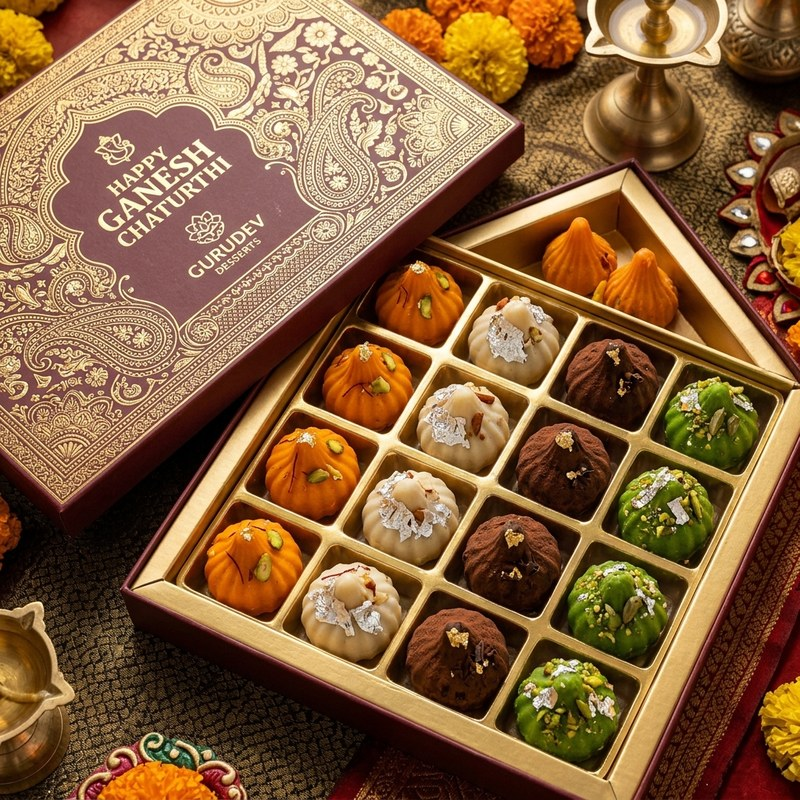
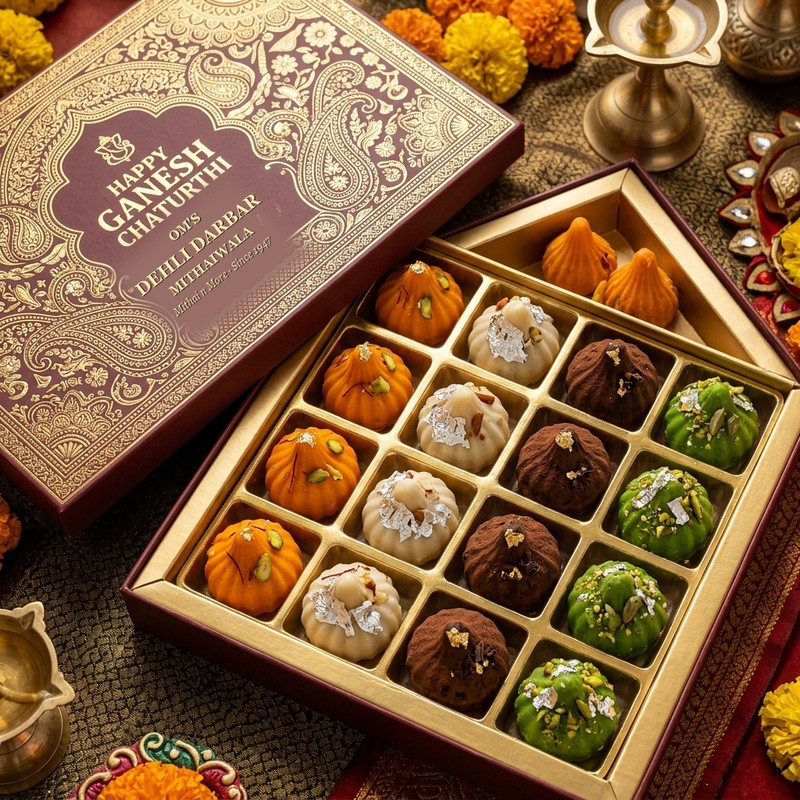
Update 21 Modak Mahaprasad Box image to feature authentic Om's Dehli Darbar Mithaiwala branding

Changed region(s): [[0.125, 0.25, 0.4062, 0.4375]]

diff --git a/assortments.html b/assortments.html
@@ -19,9 +19,9 @@
 <link rel="preload" href="assets/fonts/bitter-800.woff2" as="font" type="font/woff2" crossorigin>
 <link rel="preload" href="assets/fonts/bitter-400.woff2" as="font" type="font/woff2" crossorigin>
 <link rel="preload" href="assets/fonts/oswald-700.woff2" as="font" type="font/woff2" crossorigin>
-<link rel="stylesheet" href="assets/css/site.css?v=2026-08-30a">
-<script src="assets/js/products.js?v=2026-08-30a" defer></script>
-<script src="assets/js/site.js?v=2026-08-30a" defer></script>
+<link rel="stylesheet" href="assets/css/site.css?v=2026-08-30b">
+<script src="assets/js/products.js?v=2026-08-30b" defer></script>
+<script src="assets/js/site.js?v=2026-08-30b" defer></script>
 <link rel="icon" href="assets/img/logo.svg" type="image/svg+xml">
 <script type="application/ld+json">{"@context":"https://schema.org","@type":["Bakery","LocalBusiness","Store"],"name":"Om's Dehlii Darbar Mithaiwala","alternateName":["Om's Dehlii Darbar Mithaiwala","Oms Dehlii Darbar Mithaiwala"],"slogan":"Mithai n More","description":"All varieties of dry fruit, milk, bengali and mawa mithais manufactured by us. We cater to all orders for retail and corporate. Also available all types of dry fruits and farsans and chocolates. Fancy packaging available.","foundingDate":"1947","url":"https://omsdelhidarbarmithaiwala1947.github.io/Our-Website/","telephone":["+919920879952","+919820260299"],"priceRange":"₹₹","currenciesAccepted":"INR","paymentAccepted":"Cash, UPI","servesCuisine":"Indian sweets","address":{"@type":"PostalAddress","streetAddress":"Shop No. 20, Shivaji Nagar, Delisle Road","addressLocality":"Lower Parel (E), Mumbai","addressRegion":"Maharashtra","postalCode":"400013","addressCountry":"IN"},"openingHoursSpecification":[{"@type":"OpeningHoursSpecification","dayOfWeek":["Monday","Tuesday","Wednesday","Thursday","Friday","Saturday","Sunday"],"closes":"22:00"}],"aggregateRating":{"@type":"AggregateRating","ratingValue":"4.8","reviewCount":"16","bestRating":"5"},"hasMap":"https://maps.google.com/?q=Om%27s%20Dehlii%20Darbar%20Mithaiwala%2C%20Shop%20No.%2020%2C%20Shivaji%20Nagar%2C%20Delisle%20Road%2C%20Lower%20Parel%20%28E%29%2C%20Mumbai%20400013"}</script>
 </head>
@@ -116,7 +116,7 @@
       Contains dairy and tree nuts; many items finished with edible silver varq; some contain wheat.<br>
       FSSAI Lic. No. <span data-ph="fssai"></span> · GSTIN <span data-ph="gst"></span> ·
       Email <span data-ph="email"></span> · Instagram <span data-ph="instagram"></span><br>
-      © 1947–2026 Om's Dehlii Darbar Mithaiwala, Lower Parel, Mumbai. <span class="build">Site build 2026-08-30a</span>
+      © 1947–2026 Om's Dehlii Darbar Mithaiwala, Lower Parel, Mumbai. <span class="build">Site build 2026-08-30b</span>
     </p>
   </div>
 </footer>

diff --git a/boxes.html b/boxes.html
@@ -19,9 +19,9 @@
 <link rel="preload" href="assets/fonts/bitter-800.woff2" as="font" type="font/woff2" crossorigin>
 <link rel="preload" href="assets/fonts/bitter-400.woff2" as="font" type="font/woff2" crossorigin>
 <link rel="preload" href="assets/fonts/oswald-700.woff2" as="font" type="font/woff2" crossorigin>
-<link rel="stylesheet" href="assets/css/site.css?v=2026-08-30a">
-<script src="assets/js/products.js?v=2026-08-30a" defer></script>
-<script src="assets/js/site.js?v=2026-08-30a" defer></script>
+<link rel="stylesheet" href="assets/css/site.css?v=2026-08-30b">
+<script src="assets/js/products.js?v=2026-08-30b" defer></script>
+<script src="assets/js/site.js?v=2026-08-30b" defer></script>
 <link rel="icon" href="assets/img/logo.svg" type="image/svg+xml">
 <script type="application/ld+json">{"@context":"https://schema.org","@type":["Bakery","LocalBusiness","Store"],"name":"Om's Dehlii Darbar Mithaiwala","alternateName":["Om's Dehlii Darbar Mithaiwala","Oms Dehlii Darbar Mithaiwala"],"slogan":"Mithai n More","description":"All varieties of dry fruit, milk, bengali and mawa mithais manufactured by us. We cater to all orders for retail and corporate. Also available all types of dry fruits and farsans and chocolates. Fancy packaging available.","foundingDate":"1947","url":"https://omsdelhidarbarmithaiwala1947.github.io/Our-Website/","telephone":["+919920879952","+919820260299"],"priceRange":"₹₹","currenciesAccepted":"INR","paymentAccepted":"Cash, UPI","servesCuisine":"Indian sweets","address":{"@type":"PostalAddress","streetAddress":"Shop No. 20, Shivaji Nagar, Delisle Road","addressLocality":"Lower Parel (E), Mumbai","addressRegion":"Maharashtra","postalCode":"400013","addressCountry":"IN"},"openingHoursSpecification":[{"@type":"OpeningHoursSpecification","dayOfWeek":["Monday","Tuesday","Wednesday","Thursday","Friday","Saturday","Sunday"],"closes":"22:00"}],"aggregateRating":{"@type":"AggregateRating","ratingValue":"4.8","reviewCount":"16","bestRating":"5"},"hasMap":"https://maps.google.com/?q=Om%27s%20Dehlii%20Darbar%20Mithaiwala%2C%20Shop%20No.%2020%2C%20Shivaji%20Nagar%2C%20Delisle%20Road%2C%20Lower%20Parel%20%28E%29%2C%20Mumbai%20400013"}</script>
 </head>
@@ -120,7 +120,7 @@
       Contains dairy and tree nuts; many items finished with edible silver varq; some contain wheat.<br>
       FSSAI Lic. No. <span data-ph="fssai"></span> · GSTIN <span data-ph="gst"></span> ·
       Email <span data-ph="email"></span> · Instagram <span data-ph="instagram"></span><br>
-      © 1947–2026 Om's Dehlii Darbar Mithaiwala, Lower Parel, Mumbai. <span class="build">Site build 2026-08-30a</span>
+      © 1947–2026 Om's Dehlii Darbar Mithaiwala, Lower Parel, Mumbai. <span class="build">Site build 2026-08-30b</span>
     </p>
   </div>
 </footer>

diff --git a/corporate.html b/corporate.html
@@ -19,9 +19,9 @@
 <link rel="preload" href="assets/fonts/bitter-800.woff2" as="font" type="font/woff2" crossorigin>
 <link rel="preload" href="assets/fonts/bitter-400.woff2" as="font" type="font/woff2" crossorigin>
 <link rel="preload" href="assets/fonts/oswald-700.woff2" as="font" type="font/woff2" crossorigin>
-<link rel="stylesheet" href="assets/css/site.css?v=2026-08-30a">
-<script src="assets/js/products.js?v=2026-08-30a" defer></script>
-<script src="assets/js/site.js?v=2026-08-30a" defer></script>
+<link rel="stylesheet" href="assets/css/site.css?v=2026-08-30b">
+<script src="assets/js/products.js?v=2026-08-30b" defer></script>
+<script src="assets/js/site.js?v=2026-08-30b" defer></script>
 <link rel="icon" href="assets/img/logo.svg" type="image/svg+xml">
 <script type="application/ld+json">{"@context":"https://schema.org","@type":["Bakery","LocalBusiness","Store"],"name":"Om's Dehlii Darbar Mithaiwala","alternateName":["Om's Dehlii Darbar Mithaiwala","Oms Dehlii Darbar Mithaiwala"],"slogan":"Mithai n More","description":"All varieties of dry fruit, milk, bengali and mawa mithais manufactured by us. We cater to all orders for retail and corporate. Also available all types of dry fruits and farsans and chocolates. Fancy packaging available.","foundingDate":"1947","url":"https://omsdelhidarbarmithaiwala1947.github.io/Our-Website/","telephone":["+919920879952","+919820260299"],"priceRange":"₹₹","currenciesAccepted":"INR","paymentAccepted":"Cash, UPI","servesCuisine":"Indian sweets","address":{"@type":"PostalAddress","streetAddress":"Shop No. 20, Shivaji Nagar, Delisle Road","addressLocality":"Lower Parel (E), Mumbai","addressRegion":"Maharashtra","postalCode":"400013","addressCountry":"IN"},"openingHoursSpecification":[{"@type":"OpeningHoursSpecification","dayOfWeek":["Monday","Tuesday","Wednesday","Thursday","Friday","Saturday","Sunday"],"closes":"22:00"}],"aggregateRating":{"@type":"AggregateRating","ratingValue":"4.8","reviewCount":"16","bestRating":"5"},"hasMap":"https://maps.google.com/?q=Om%27s%20Dehlii%20Darbar%20Mithaiwala%2C%20Shop%20No.%2020%2C%20Shivaji%20Nagar%2C%20Delisle%20Road%2C%20Lower%20Parel%20%28E%29%2C%20Mumbai%20400013"}</script>
 </head>
@@ -149,7 +149,7 @@
       Contains dairy and tree nuts; many items finished with edible silver varq; some contain wheat.<br>
       FSSAI Lic. No. <span data-ph="fssai"></span> · GSTIN <span data-ph="gst"></span> ·
       Email <span data-ph="email"></span> · Instagram <span data-ph="instagram"></span><br>
-      © 1947–2026 Om's Dehlii Darbar Mithaiwala, Lower Parel, Mumbai. <span class="build">Site build 2026-08-30a</span>
+      © 1947–2026 Om's Dehlii Darbar Mithaiwala, Lower Parel, Mumbai. <span class="build">Site build 2026-08-30b</span>
     </p>
   </div>
 </footer>

diff --git a/index.html b/index.html
@@ -21,9 +21,9 @@
 <link rel="preload" href="assets/fonts/bitter-800.woff2" as="font" type="font/woff2" crossorigin>
 <link rel="preload" href="assets/fonts/bitter-400.woff2" as="font" type="font/woff2" crossorigin>
 <link rel="preload" href="assets/fonts/oswald-700.woff2" as="font" type="font/woff2" crossorigin>
-<link rel="stylesheet" href="assets/css/site.css?v=2026-08-30a">
-<script src="assets/js/products.js?v=2026-08-30a" defer></script>
-<script src="assets/js/site.js?v=2026-08-30a" defer></script>
+<link rel="stylesheet" href="assets/css/site.css?v=2026-08-30b">
+<script src="assets/js/products.js?v=2026-08-30b" defer></script>
+<script src="assets/js/site.js?v=2026-08-30b" defer></script>
 <link rel="icon" href="assets/img/logo.svg" type="image/svg+xml">
 <script type="application/ld+json">{"@context":"https://schema.org","@type":["Bakery","LocalBusiness","Store"],"name":"Om's Dehlii Darbar Mithaiwala","alternateName":["Om's Dehlii Darbar Mithaiwala","Oms Dehlii Darbar Mithaiwala"],"slogan":"Mithai n More","description":"All varieties of dry fruit, milk, bengali and mawa mithais manufactured by us. We cater to all orders for retail and corporate. Also available all types of dry fruits and farsans and chocolates. Fancy packaging available.","foundingDate":"1947","url":"https://omsdelhidarbarmithaiwala1947.github.io/Our-Website/","telephone":["+919920879952","+919820260299"],"priceRange":"₹₹","currenciesAccepted":"INR","paymentAccepted":"Cash, UPI","servesCuisine":"Indian sweets","address":{"@type":"PostalAddress","streetAddress":"Shop No. 20, Shivaji Nagar, Delisle Road","addressLocality":"Lower Parel (E), Mumbai","addressRegion":"Maharashtra","postalCode":"400013","addressCountry":"IN"},"openingHoursSpecification":[{"@type":"OpeningHoursSpecification","dayOfWeek":["Monday","Tuesday","Wednesday","Thursday","Friday","Saturday","Sunday"],"closes":"22:00"}],"aggregateRating":{"@type":"AggregateRating","ratingValue":"4.8","reviewCount":"16","bestRating":"5"},"hasMap":"https://maps.google.com/?q=Om%27s%20Dehlii%20Darbar%20Mithaiwala%2C%20Shop%20No.%2020%2C%20Shivaji%20Nagar%2C%20Delisle%20Road%2C%20Lower%20Parel%20%28E%29%2C%20Mumbai%20400013"}</script>
 </head>
@@ -214,7 +214,7 @@
       Contains dairy and tree nuts; many items finished with edible silver varq; some contain wheat.<br>
       FSSAI Lic. No. <span data-ph="fssai"></span> · GSTIN <span data-ph="gst"></span> ·
       Email <span data-ph="email"></span> · Instagram <span data-ph="instagram"></span><br>
-      © 1947–2026 Om's Dehlii Darbar Mithaiwala, Lower Parel, Mumbai. <span class="build">Site build 2026-08-30a</span>
+      © 1947–2026 Om's Dehlii Darbar Mithaiwala, Lower Parel, Mumbai. <span class="build">Site build 2026-08-30b</span>
     </p>
   </div>
 </footer>

diff --git a/story.html b/story.html
@@ -19,9 +19,9 @@
 <link rel="preload" href="assets/fonts/bitter-800.woff2" as="font" type="font/woff2" crossorigin>
 <link rel="preload" href="assets/fonts/bitter-400.woff2" as="font" type="font/woff2" crossorigin>
 <link rel="preload" href="assets/fonts/oswald-700.woff2" as="font" type="font/woff2" crossorigin>
-<link rel="stylesheet" href="assets/css/site.css?v=2026-08-30a">
-<script src="assets/js/products.js?v=2026-08-30a" defer></script>
-<script src="assets/js/site.js?v=2026-08-30a" defer></script>
+<link rel="stylesheet" href="assets/css/site.css?v=2026-08-30b">
+<script src="assets/js/products.js?v=2026-08-30b" defer></script>
+<script src="assets/js/site.js?v=2026-08-30b" defer></script>
 <link rel="icon" href="assets/img/logo.svg" type="image/svg+xml">
 <script type="application/ld+json">{"@context":"https://schema.org","@type":["Bakery","LocalBusiness","Store"],"name":"Om's Dehlii Darbar Mithaiwala","alternateName":["Om's Dehlii Darbar Mithaiwala","Oms Dehlii Darbar Mithaiwala"],"slogan":"Mithai n More","description":"All varieties of dry fruit, milk, bengali and mawa mithais manufactured by us. We cater to all orders for retail and corporate. Also available all types of dry fruits and farsans and chocolates. Fancy packaging available.","foundingDate":"1947","url":"https://omsdelhidarbarmithaiwala1947.github.io/Our-Website/","telephone":["+919920879952","+919820260299"],"priceRange":"₹₹","currenciesAccepted":"INR","paymentAccepted":"Cash, UPI","servesCuisine":"Indian sweets","address":{"@type":"PostalAddress","streetAddress":"Shop No. 20, Shivaji Nagar, Delisle Road","addressLocality":"Lower Parel (E), Mumbai","addressRegion":"Maharashtra","postalCode":"400013","addressCountry":"IN"},"openingHoursSpecification":[{"@type":"OpeningHoursSpecification","dayOfWeek":["Monday","Tuesday","Wednesday","Thursday","Friday","Saturday","Sunday"],"closes":"22:00"}],"aggregateRating":{"@type":"AggregateRating","ratingValue":"4.8","reviewCount":"16","bestRating":"5"},"hasMap":"https://maps.google.com/?q=Om%27s%20Dehlii%20Darbar%20Mithaiwala%2C%20Shop%20No.%2020%2C%20Shivaji%20Nagar%2C%20Delisle%20Road%2C%20Lower%20Parel%20%28E%29%2C%20Mumbai%20400013"}</script>
 </head>
@@ -119,7 +119,7 @@
       Contains dairy and tree nuts; many items finished with edible silver varq; some contain wheat.<br>
       FSSAI Lic. No. <span data-ph="fssai"></span> · GSTIN <span data-ph="gst"></span> ·
       Email <span data-ph="email"></span> · Instagram <span data-ph="instagram"></span><br>
-      © 1947–2026 Om's Dehlii Darbar Mithaiwala, Lower Parel, Mumbai. <span class="build">Site build 2026-08-30a</span>
+      © 1947–2026 Om's Dehlii Darbar Mithaiwala, Lower Parel, Mumbai. <span class="build">Site build 2026-08-30b</span>
     </p>
   </div>
 </footer>

diff --git a/sweets.html b/sweets.html
@@ -19,9 +19,9 @@
 <link rel="preload" href="assets/fonts/bitter-800.woff2" as="font" type="font/woff2" crossorigin>
 <link rel="preload" href="assets/fonts/bitter-400.woff2" as="font" type="font/woff2" crossorigin>
 <link rel="preload" href="assets/fonts/oswald-700.woff2" as="font" type="font/woff2" crossorigin>
-<link rel="stylesheet" href="assets/css/site.css?v=2026-08-30a">
-<script src="assets/js/products.js?v=2026-08-30a" defer></script>
-<script src="assets/js/site.js?v=2026-08-30a" defer></script>
+<link rel="stylesheet" href="assets/css/site.css?v=2026-08-30b">
+<script src="assets/js/products.js?v=2026-08-30b" defer></script>
+<script src="assets/js/site.js?v=2026-08-30b" defer></script>
 <link rel="icon" href="assets/img/logo.svg" type="image/svg+xml">
 <script type="application/ld+json">{"@context":"https://schema.org","@type":["Bakery","LocalBusiness","Store"],"name":"Om's Dehlii Darbar Mithaiwala","alternateName":["Om's Dehlii Darbar Mithaiwala","Oms Dehlii Darbar Mithaiwala"],"slogan":"Mithai n More","description":"All varieties of dry fruit, milk, bengali and mawa mithais manufactured by us. We cater to all orders for retail and corporate. Also available all types of dry fruits and farsans and chocolates. Fancy packaging available.","foundingDate":"1947","url":"https://omsdelhidarbarmithaiwala1947.github.io/Our-Website/","telephone":["+919920879952","+919820260299"],"priceRange":"₹₹","currenciesAccepted":"INR","paymentAccepted":"Cash, UPI","servesCuisine":"Indian sweets","address":{"@type":"PostalAddress","streetAddress":"Shop No. 20, Shivaji Nagar, Delisle Road","addressLocality":"Lower Parel (E), Mumbai","addressRegion":"Maharashtra","postalCode":"400013","addressCountry":"IN"},"openingHoursSpecification":[{"@type":"OpeningHoursSpecification","dayOfWeek":["Monday","Tuesday","Wednesday","Thursday","Friday","Saturday","Sunday"],"closes":"22:00"}],"aggregateRating":{"@type":"AggregateRating","ratingValue":"4.8","reviewCount":"16","bestRating":"5"},"hasMap":"https://maps.google.com/?q=Om%27s%20Dehlii%20Darbar%20Mithaiwala%2C%20Shop%20No.%2020%2C%20Shivaji%20Nagar%2C%20Delisle%20Road%2C%20Lower%20Parel%20%28E%29%2C%20Mumbai%20400013"}</script>
 </head>
@@ -125,7 +125,7 @@
       Contains dairy and tree nuts; many items finished with edible silver varq; some contain wheat.<br>
       FSSAI Lic. No. <span data-ph="fssai"></span> · GSTIN <span data-ph="gst"></span> ·
       Email <span data-ph="email"></span> · Instagram <span data-ph="instagram"></span><br>
-      © 1947–2026 Om's Dehlii Darbar Mithaiwala, Lower Parel, Mumbai. <span class="build">Site build 2026-08-30a</span>
+      © 1947–2026 Om's Dehlii Darbar Mithaiwala, Lower Parel, Mumbai. <span class="build">Site build 2026-08-30b</span>
     </p>
   </div>
 </footer>

diff --git a/visit.html b/visit.html
@@ -19,9 +19,9 @@
 <link rel="preload" href="assets/fonts/bitter-800.woff2" as="font" type="font/woff2" crossorigin>
 <link rel="preload" href="assets/fonts/bitter-400.woff2" as="font" type="font/woff2" crossorigin>
 <link rel="preload" href="assets/fonts/oswald-700.woff2" as="font" type="font/woff2" crossorigin>
-<link rel="stylesheet" href="assets/css/site.css?v=2026-08-30a">
-<script src="assets/js/products.js?v=2026-08-30a" defer></script>
-<script src="assets/js/site.js?v=2026-08-30a" defer></script>
+<link rel="stylesheet" href="assets/css/site.css?v=2026-08-30b">
+<script src="assets/js/products.js?v=2026-08-30b" defer></script>
+<script src="assets/js/site.js?v=2026-08-30b" defer></script>
 <link rel="icon" href="assets/img/logo.svg" type="image/svg+xml">
 <script type="application/ld+json">{"@context":"https://schema.org","@type":["Bakery","LocalBusiness","Store"],"name":"Om's Dehlii Darbar Mithaiwala","alternateName":["Om's Dehlii Darbar Mithaiwala","Oms Dehlii Darbar Mithaiwala"],"slogan":"Mithai n More","description":"All varieties of dry fruit, milk, bengali and mawa mithais manufactured by us. We cater to all orders for retail and corporate. Also available all types of dry fruits and farsans and chocolates. Fancy packaging available.","foundingDate":"1947","url":"https://omsdelhidarbarmithaiwala1947.github.io/Our-Website/","telephone":["+919920879952","+919820260299"],"priceRange":"₹₹","currenciesAccepted":"INR","paymentAccepted":"Cash, UPI","servesCuisine":"Indian sweets","address":{"@type":"PostalAddress","streetAddress":"Shop No. 20, Shivaji Nagar, Delisle Road","addressLocality":"Lower Parel (E), Mumbai","addressRegion":"Maharashtra","postalCode":"400013","addressCountry":"IN"},"openingHoursSpecification":[{"@type":"OpeningHoursSpecification","dayOfWeek":["Monday","Tuesday","Wednesday","Thursday","Friday","Saturday","Sunday"],"closes":"22:00"}],"aggregateRating":{"@type":"AggregateRating","ratingValue":"4.8","reviewCount":"16","bestRating":"5"},"hasMap":"https://maps.google.com/?q=Om%27s%20Dehlii%20Darbar%20Mithaiwala%2C%20Shop%20No.%2020%2C%20Shivaji%20Nagar%2C%20Delisle%20Road%2C%20Lower%20Parel%20%28E%29%2C%20Mumbai%20400013"}</script>
 </head>
@@ -120,7 +120,7 @@
       Contains dairy and tree nuts; many items finished with edible silver varq; some contain wheat.<br>
       FSSAI Lic. No. <span data-ph="fssai"></span> · GSTIN <span data-ph="gst"></span> ·
       Email <span data-ph="email"></span> · Instagram <span data-ph="instagram"></span><br>
-      © 1947–2026 Om's Dehlii Darbar Mithaiwala, Lower Parel, Mumbai. <span class="build">Site build 2026-08-30a</span>
+      © 1947–2026 Om's Dehlii Darbar Mithaiwala, Lower Parel, Mumbai. <span class="build">Site build 2026-08-30b</span>
     </p>
   </div>
 </footer>

diff --git a/ganpati.html b/ganpati.html
@@ -19,9 +19,9 @@
 <link rel="preload" href="assets/fonts/bitter-800.woff2" as="font" type="font/woff2" crossorigin>
 <link rel="preload" href="assets/fonts/bitter-400.woff2" as="font" type="font/woff2" crossorigin>
 <link rel="preload" href="assets/fonts/oswald-700.woff2" as="font" type="font/woff2" crossorigin>
-<link rel="stylesheet" href="assets/css/site.css?v=2026-08-30a">
-<script src="assets/js/products.js?v=2026-08-30a" defer></script>
-<script src="assets/js/site.js?v=2026-08-30a" defer></script>
+<link rel="stylesheet" href="assets/css/site.css?v=2026-08-30b">
+<script src="assets/js/products.js?v=2026-08-30b" defer></script>
+<script src="assets/js/site.js?v=2026-08-30b" defer></script>
 <link rel="icon" href="assets/img/logo.svg" type="image/svg+xml">
 <script type="application/ld+json">{"@context":"https://schema.org","@type":["Bakery","LocalBusiness","Store"],"name":"Om's Dehlii Darbar Mithaiwala","alternateName":["Om's Dehlii Darbar Mithaiwala","Oms Dehlii Darbar Mithaiwala"],"slogan":"Mithai n More","description":"All varieties of fresh Ganpati modaks, dry fruit, milk, bengali and mawa mithais manufactured by us. We cater to all orders for retail, societies and Ganpati mandals.","foundingDate":"1947","url":"https://omsdelhidarbarmithaiwala1947.github.io/Our-Website/","telephone":["+919920879952","+919820260299"],"priceRange":"₹₹","currenciesAccepted":"INR","paymentAccepted":"Cash, UPI","servesCuisine":"Indian sweets","address":{"@type":"PostalAddress","streetAddress":"Shop No. 20, Shivaji Nagar, Delisle Road","addressLocality":"Lower Parel (E), Mumbai","addressRegion":"Maharashtra","postalCode":"400013","addressCountry":"IN"},"openingHoursSpecification":[{"@type":"OpeningHoursSpecification","dayOfWeek":["Monday","Tuesday","Wednesday","Thursday","Friday","Saturday","Sunday"],"closes":"22:00"}],"aggregateRating":{"@type":"AggregateRating","ratingValue":"4.8","reviewCount":"16","bestRating":"5"},"hasMap":"https://maps.google.com/?q=Om%27s%20Dehlii%20Darbar%20Mithaiwala%2C%20Shop%20No.%2020%2C%20Shivaji%20Nagar%2C%20Delisle%20Road%2C%20Lower%20Parel%20%28E%29%2C%20Mumbai%20400013"}</script>
 </head>
@@ -339,7 +339,7 @@
       Contains dairy and tree nuts; many items finished with edible silver varq; some contain wheat.<br>
       FSSAI Lic. No. <span data-ph="fssai"></span> · GSTIN <span data-ph="gst"></span> ·
       Email <span data-ph="email"></span> · Instagram <span data-ph="instagram"></span><br>
-      © 1947–2026 Om's Dehlii Darbar Mithaiwala, Lower Parel, Mumbai. <span class="build">Site build 2026-08-30a</span>
+      © 1947–2026 Om's Dehlii Darbar Mithaiwala, Lower Parel, Mumbai. <span class="build">Site build 2026-08-30b</span>
     </p>
   </div>
 </footer>
